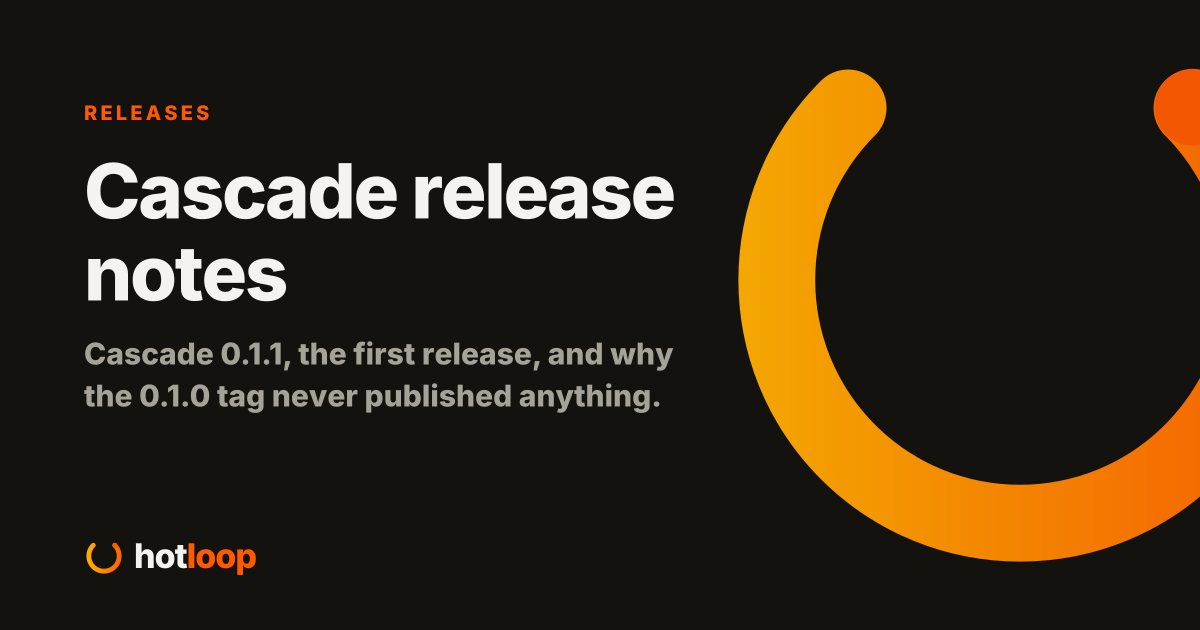
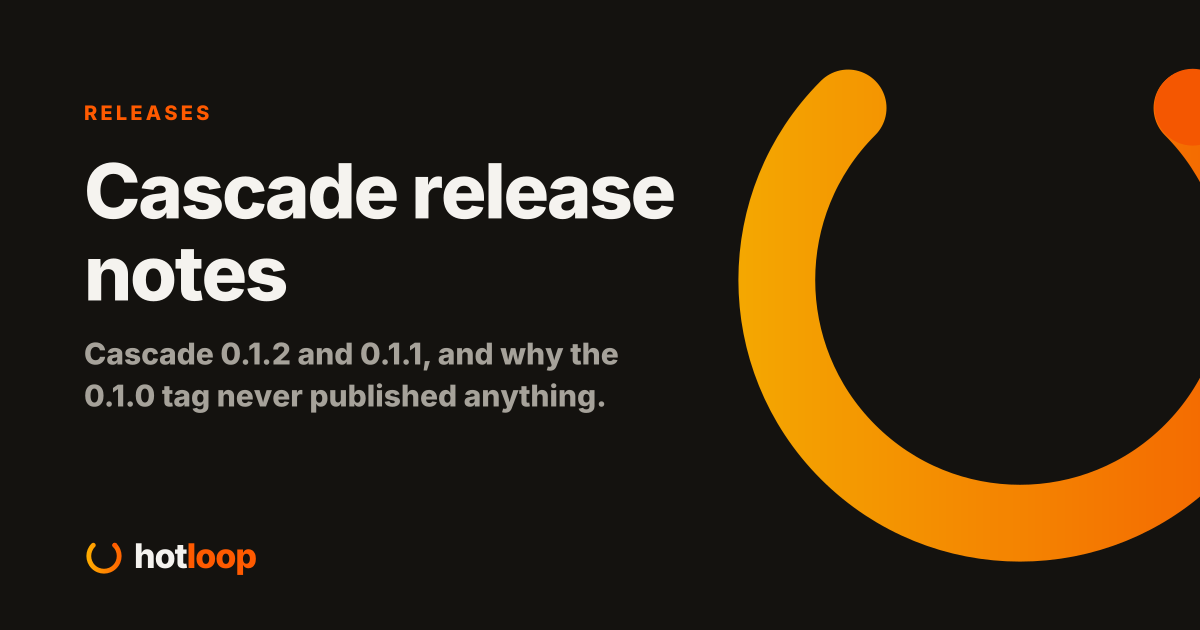
cascade 0.1.2 is out, and the image and chart pull with no login

Changed region(s): [[0.0617, 0.5429, 0.555, 0.6635]]

diff --git a/src/lib/products.ts b/src/lib/products.ts
@@ -148,7 +148,7 @@ export const GATEWAY_FEATURES: Feature[] = [
 ];
 
 // Cascade is its own product and is not one of the four from the shared codebase,
-// so it lives beside PRODUCTS. 0.1.1 is its first release. A 0.1.0 tag exists and
-// never published anything. The repository and the registry are private.
+// so it lives beside PRODUCTS. 0.1.1 was its first release. A 0.1.0 tag exists and
+// never published anything. The repository is private, the image and chart are public.
 // Change it here when the next release ships.
-export const CASCADE = '0.1.1';
+export const CASCADE = '0.1.2';

diff --git a/src/content/releases/cascade/0.1.2.md b/src/content/releases/cascade/0.1.2.md
@@ -1,0 +1,19 @@
+---
+product: cascade
+version: "0.1.2"
+date: 2026-10-20
+published: true
+summary: "A build fix and nothing else. The code is the same as 0.1.1, and the workflows that test and publish Cascade run on Podman the whole way through."
+highlights:
+  - "Same code as 0.1.1, and so is everything you run: the chart, the Quadlet units, the settings and the database. No migrations and no new settings."
+  - "The workflows that test and publish Cascade no longer reach for a Docker engine to start the test services, log in to the registry or load the image into k3s. The test scripts no longer offer Docker as a switch."
+  - "The image was already built with Podman. It is built one platform at a time now, and the release reads the manifest list back and refuses to push unless it holds exactly amd64 and arm64."
+  - "The image and the chart are public and pull with no login. The source repository is still private."
+breaking: []
+---
+
+Pull it with `podman pull ghcr.io/hotloop-io/hotloop-cascade:0.1.2`, or install the chart with `helm install cascade oci://ghcr.io/hotloop-io/charts/hotloop-cascade --version 0.1.2`. The image is amd64 and arm64, and the tags are 0.1.2, 0.1, 0, latest and stable.
+
+Upgrading from 0.1.1 means nothing to do. Run `helm upgrade` to 0.1.2, or let `:stable` roll the Quadlet units. Your key and your workflows stay where they were.
+
+What isn't proven: the workflows on a real GitHub runner. I ran the workflow's own steps under Podman 4.9.3, the version the runner ships, on a box cut down to two CPUs, 7 GB of RAM and a runner-sized disk, with a local registry that needed a login. The tag run was the first time ghcr.io saw any of it.

diff --git a/src/content/releases/cascade/0.1.1.md b/src/content/releases/cascade/0.1.1.md
@@ -14,7 +14,7 @@ highlights:
 breaking: []
 ---
 
-Pull it with `podman pull ghcr.io/hotloop-io/hotloop-cascade:0.1.1`, or install the chart with `helm install cascade oci://ghcr.io/hotloop-io/charts/hotloop-cascade --version 0.1.1`. The image is amd64 and arm64, and the tags are 0.1.1, 0.1, 0, latest and stable. The registry is private, so run `podman login ghcr.io` as root once or the pull fails and the box stays on what it has.
+Pull it with `podman pull ghcr.io/hotloop-io/hotloop-cascade:0.1.1`, or install the chart with `helm install cascade oci://ghcr.io/hotloop-io/charts/hotloop-cascade --version 0.1.1`. The image is amd64 and arm64, and the tags are 0.1.1, 0.1, 0, latest and stable. The registry was private for this release, so it wanted a `podman login ghcr.io` as root first. The image and chart are public from 0.1.2 on and pull with no login.
 
 There was a 0.1.0 tag and it never published anything. Its chart test failed on a hosted runner and I cancelled the run, so nothing reached the registry, and a tag stays where it is. 0.1.1 is the same code with the test fixed. It checked the upgrade by listing pods while the old ones were still stopping, which a quiet laptop never shows.
 
